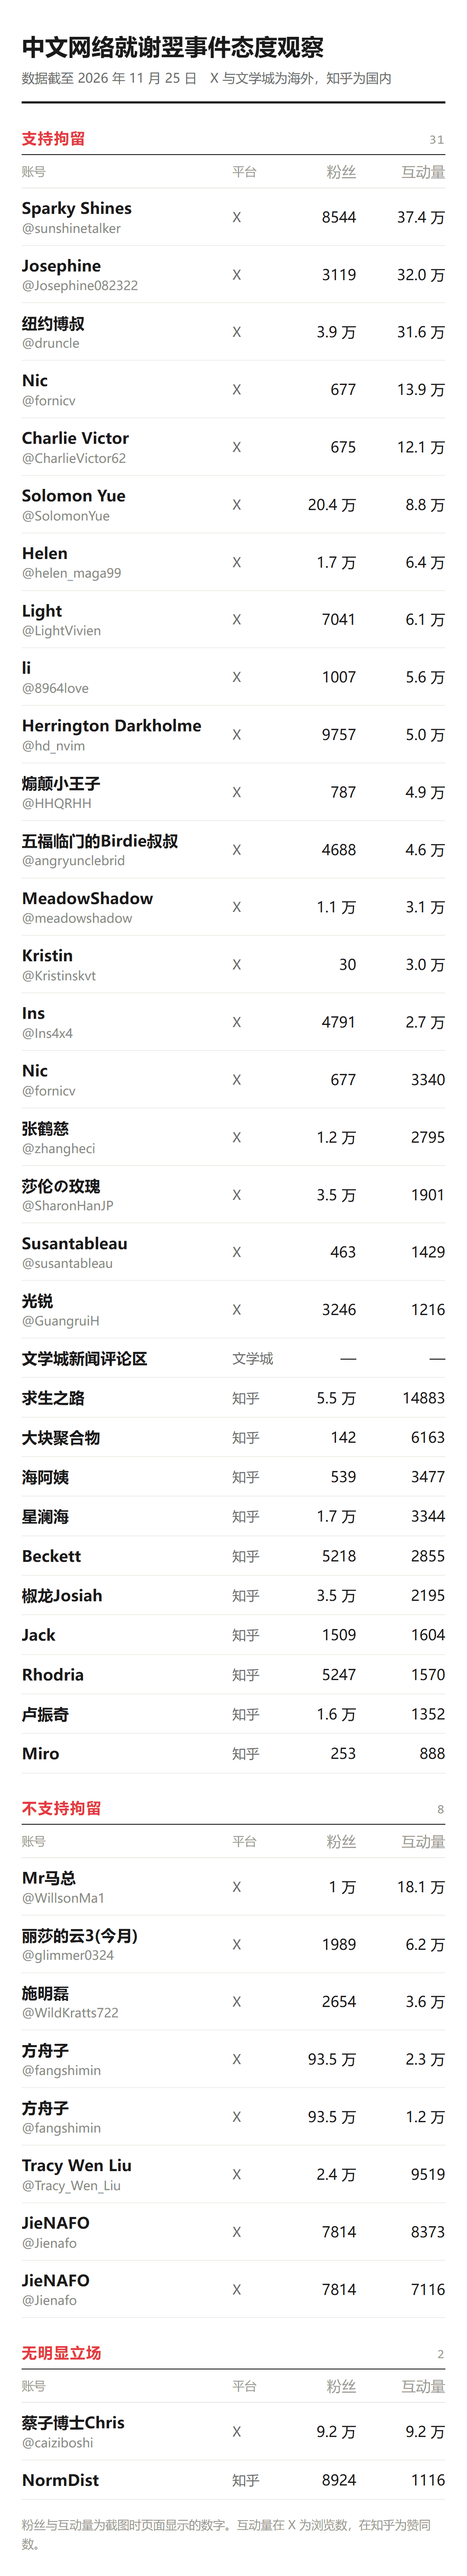
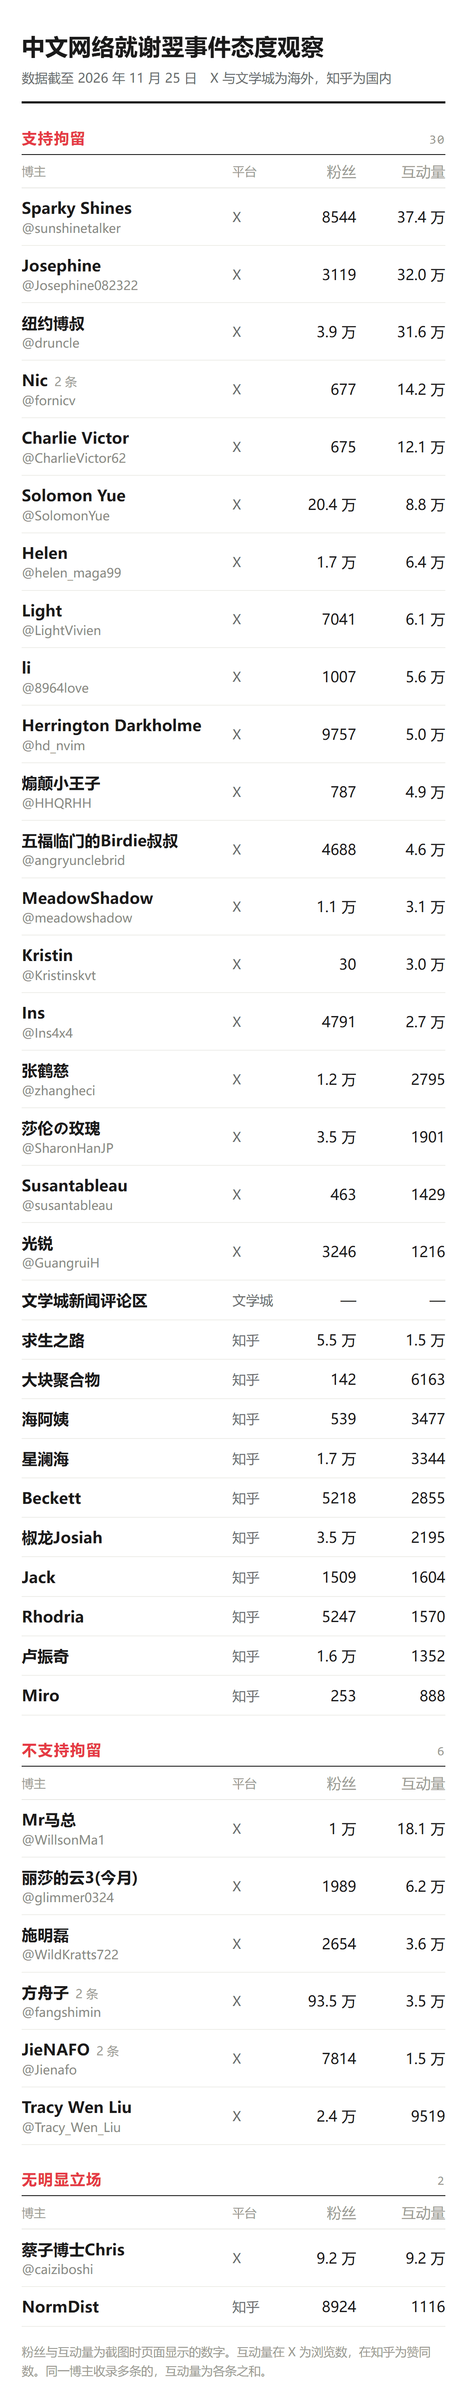
content: 谢翌事件中文评论.md merge duplicate bloggers (38 h4), 态度观察.png one row per blogger; site: drop unused h4 table css

diff --git a/site/public/assets/site.css b/site/public/assets/site.css
@@ -219,9 +219,6 @@ h1.collection-title { font-size: calc(2.2rem * var(--font-scale)); }
 .prose > h3 + h4 { margin-top: 1.4em; padding-top: 0; border-top: none; }
 .prose > h4 + p { margin: 0.15em 0 0.8em; font-family: var(--sans); font-size: var(--fs-meta); color: var(--text-3); }
 .prose:has(> h4) p > img:not(.emoji) { width: 432px; max-width: 100%; margin: 1.1em 0 0; }
-.prose:has(> h4) table { display: table; font-size: 0.86em; }
-.prose:has(> h4) td { padding: 0.42em 0.8em; white-space: nowrap; }
-.prose:has(> h4) td:first-child { white-space: normal; }
 .prose blockquote h3, .prose blockquote h4 { color: var(--text); }
 .prose h1 { font-size: 1.7em; line-height: 1.35; margin: 1.8em 0 0.6em; }
 /* 二级、三级标题拉开差距：二级是节，三级是节里的条目（如按日期排的一条条记录） */

diff --git a/大驱逐时代/2026-11-25-谢翌事件中文评论.md b/大驱逐时代/2026-11-25-谢翌事件中文评论.md
@@ -38,11 +38,15 @@ X · 11 月 22 日 · 粉丝 3.9 万 · 浏览 31.6 万 · [原帖](https://x.co
 
 #### Nic @fornicv
 
-X · 11 月 24 日 · 粉丝 677 · 浏览 13.9 万 · [原帖](https://x.com/fornicv/status/2125464911644086323)
+X · 粉丝 677 · 两帖浏览合计 14.2 万 · [11 月 24 日原帖](https://x.com/fornicv/status/2125464911644086323) · [11 月 25 日原帖](https://x.com/fornicv/status/2125505558082093554)
 
-点名她母亲让外婆当借款担保人，说谢家坑了很多亲戚，称之为「诈骗之家」。
+11 月 24 日一帖点名她母亲让外婆当借款担保人，说谢家坑了很多亲戚，称之为「诈骗之家」。
 
 ![](images/谢翌事件中文评论/甲04.jpg)
+
+11 月 25 日一帖说她花家里的钱时理所当然，家里缺钱时就要逃离原生家庭。
+
+![](images/谢翌事件中文评论/N01.jpg)
 
 #### Charlie Victor @CharlieVictor62
 
@@ -131,14 +135,6 @@ X · 11 月 23 日 · 粉丝 4791 · 浏览 2.7 万 · [原帖](https://x.com/In
 说她以贫困生资格进麻省理工属于欺诈，号召网友举报。
 
 ![](images/谢翌事件中文评论/甲09.jpg)
-
-#### Nic @fornicv
-
-X · 11 月 25 日 · 粉丝 677 · 浏览 3340 · [原帖](https://x.com/fornicv/status/2125505558082093554)
-
-说她花家里的钱时理所当然，家里缺钱时就要逃离原生家庭。
-
-![](images/谢翌事件中文评论/N01.jpg)
 
 #### 张鹤慈 @zhangheci
 
@@ -294,19 +290,27 @@ X 长文《逃离中国政府迫害，却困在美国移民监》，写中国在
 
 #### 方舟子 @fangshimin
 
-X · 11 月 20 日 · 粉丝 93.5 万 · 浏览 2.3 万 · [原帖](https://x.com/fangshimin/status/2123956179898638797)
+X · 粉丝 93.5 万 · 两帖浏览合计 3.5 万 · [11 月 20 日原帖](https://x.com/fangshimin/status/2123956179898638797) · [11 月 25 日原帖](https://x.com/fangshimin/status/2125697107252420921)
 
-说她未成年时随父母来美，庇护真假与她无关，问为什么不抓重罪非法移民，偏偏抓名校学生。
+11 月 20 日一帖说她未成年时随父母来美，庇护真假与她无关，问为什么不抓重罪非法移民，偏偏抓名校学生。
 
 ![](images/谢翌事件中文评论/乙03.jpg)
 
-#### 方舟子 @fangshimin
-
-X · 11 月 25 日 · 粉丝 93.5 万 · 浏览 1.2 万 · [原帖](https://x.com/fangshimin/status/2125697107252420921)
-
-说她父母在中国的事与她无关，抓她没有人性，落井下石同样没有人性。
+11 月 25 日一帖说她父母在中国的事与她无关，抓她没有人性，落井下石同样没有人性。
 
 ![](images/谢翌事件中文评论/乙02.jpg)
+
+#### JieNAFO @Jienafo
+
+X · 粉丝 7814 · 两帖浏览合计 1.5 万 · [11 月 23 日原帖](https://x.com/Jienafo/status/2124882266111328419) · [11 月 24 日原帖](https://x.com/Jienafo/status/2125436357271044239)
+
+11 月 23 日一帖认为法庭最终会判她赢，批评一些华人慕强，主张未成年随父母来美的人是无辜的。
+
+![](images/谢翌事件中文评论/丁07.jpg)
+
+11 月 24 日一帖「再评论一下」，分四点说她父母有民事欠款但没有诈骗，父母的行为不能成为她的原罪，反对 ICE 违法式执法。
+
+![](images/谢翌事件中文评论/丁06.jpg)
 
 #### Tracy Wen Liu @Tracy_Wen_Liu
 
@@ -315,22 +319,6 @@ X · 11 月 22 日 · 粉丝 2.4 万 · 浏览 9519 · [原帖](https://x.com/Tr
 追问爆料有什么实际证据，「吃一顿饭 1300 美元是什么原罪吗？」
 
 ![](images/谢翌事件中文评论/丙03.jpg)
-
-#### JieNAFO @Jienafo
-
-X · 11 月 24 日 · 粉丝 7814 · 浏览 8373 · [原帖](https://x.com/Jienafo/status/2125436357271044239)
-
-分四点说，她父母有民事欠款但没有诈骗，父母的行为不能成为她的原罪，反对 ICE 违法式执法。
-
-![](images/谢翌事件中文评论/丁06.jpg)
-
-#### JieNAFO @Jienafo
-
-X · 11 月 23 日 · 粉丝 7814 · 浏览 7116 · [原帖](https://x.com/Jienafo/status/2124882266111328419)
-
-认为法庭最终会判她赢，批评一些华人慕强，主张未成年随父母来美的人是无辜的。
-
-![](images/谢翌事件中文评论/丁07.jpg)
 
 ### 国内
 
